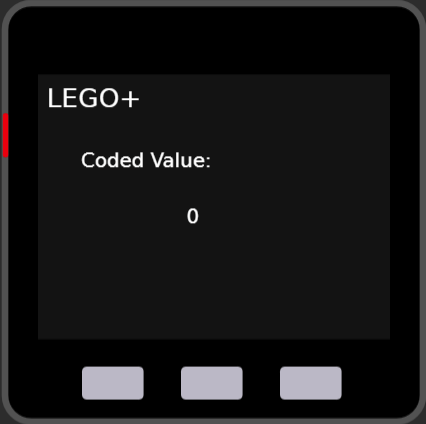
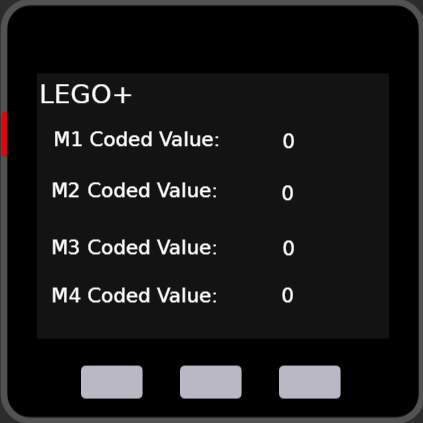
updated

diff --git a/docs/zh_CN/base/rfid_base.md b/docs/zh_CN/base/rfid_base.md
@@ -1,0 +1,123 @@
+# RFID底座 - m5go底座升级版
+
+<img src="assets/img/product_pics/base/rfid_01.png" alt="basic_02" width="250" height="250">
+
+* * *
+
+:memo:**[描述](#描述)**&nbsp;&nbsp;&nbsp;&nbsp;&nbsp;&nbsp;🛒**[购买链接](https://item.taobao.com/item.htm?spm=a1z10.3-c.w4002-1172588106.10.57b2425eKUxTqx&id=584855077636)**
+
+<!-- :memo:**[描述](#描述)**&nbsp;&nbsp;&nbsp;&nbsp;&nbsp;&nbsp;:octocat:**[例程](#例程)**&nbsp;&nbsp;&nbsp;&nbsp;&nbsp;&nbsp;:electric_plug:**[原理图](#原理图)**&nbsp;&nbsp;&nbsp;&nbsp;&nbsp;&nbsp;🛒**[购买链接](https://item.taobao.com/item.htm?spm=a1z10.3-c.w4002-1172588106.10.57b2425eKUxTqx&id=584855077636)** -->
+
+## 描述
+
+<mark>RFID底座</mark>是[M5GO底座](zh_CN/product_documents/base/m5go_base)是升级版，在M5GO底座的基础上增加了RFID功能。
+
+RFID底座由**330mAh的电池**、M-Bus总线接口、麦克风、红色的充电指示LED、2条RGB灯条(10颗)、PORT B和PORT C组成。
+
+M5GO底座在充电过程中，红色LED闪烁，充满了常亮。
+
+## 管脚映射
+
+**POGO Pin**
+
+| POGO Pin       | ESP32 Chip    |
+| :----------:  |:------------: |
+| SCL           | GPIO22        |
+| SDA           | GPIO21        |
+
+**LED Bar(Neopixel)**
+
+*有10颗RGB灯，左右各5颗*
+
+| LED Pin       | ESP32 Chip    |
+| :----------:  |:------------: |
+| LED Pin           | GPIO15        |
+
+**麦克风MIC**
+
+| MIC Pin       | ESP32 Chip    |
+| :----------:  |:------------: |
+| MIC Pin           | GPIO34        |
+
+**GROVE接口**
+
+| PORT A(I2C)       | ESP32 Chip    |
+| :----------:  |:------------: |
+| SCL           | GPIO22        |
+| SDA           | GPIO21        |
+| 5V            | 5V            |
+| GND           | GND           |
+
+| PORT B(I/O)       | ESP32 Chip    |
+| :----------:  |:------------: |
+| G36           | GPIO36        |
+| G26           | GPIO26        |
+| 5V            | 5V            |
+| GND           | GND           |
+
+| PORT C(UART2)       | ESP32 Chip    |
+| :----------:  |:------------: |
+| RXD           | GPIO16        |
+| TXD           | GPIO17        |
+| 5V            | 5V            |
+| GND           | GND           |
+
+**M-Bus**
+
+<figure>
+  <img src="assets/img/product_pics/core/M-BUS.jpg" alt="M_BUS" width="500" height="500">
+</figure>
+
+## 相关链接
+
+- **[官方频道视频](https://i.youku.com/i/UNjE1ODA2MzE0OA==?spm=a2hzp.8253869.0.0)**
+
+- **[官方论坛](http://forum.m5stack.com/)**
+
+<!-- ## 例程
+
+### 1. Arduino IDE
+
+*以下仅为用法示意，并不完整。如果需要完整例程请点击[这里](https://github.com/m5stack/M5Stack/tree/master/examples/Unit/ENV)。*
+
+```arduino
+/
+    Install Adafruit BMP280 Library first.
+*/
+#include <M5Stack.h>
+#include "DHT12.h"
+#include <Wire.h> //The DHT12 uses I2C comunication.
+#include <Adafruit_Sensor.h>
+#include <Adafruit_BMP280.h>
+
+// new two objects
+DHT12 dht12;
+Adafruit_BMP280 bme;
+
+// initialization
+M5.begin();
+Wire.begin();
+bme.begin();
+
+// read data
+float tmp = dht12.readTemperature();
+float hum = dht12.readHumidity();
+float pressure = bme.readPressure();
+``` -->
+
+<!-- ### 2. UIFlow
+
+*具体例程请点击[这里](https://github.com/m5stack/M5-ProductExampleCodes/tree/master/Unit/ENV/UIFlow)。*
+
+<img src="assets/img/product_pics/unit/unit_example/ENV/example_unit_env_01.png" width="30%" height="30%"> <img src="assets/img/product_pics/unit/unit_example/ENV/example_unit_env_02.png" width="55%" height="55%"> -->
+
+<!-- ## 原理图
+
+<img src="assets/img/product_pics/unit/env_sch.JPG">
+
+### 管脚映射
+
+<table>
+<tr><td>M5Core(GROVE接口A)</td><td>GPIO22</td><td>GPIO21</td><td>5V</td><td>GND</td></tr>
+ <tr><td>ENV温湿度和压力传感器Unit</td><td>SCL</td><td>SDA</td><td>5V</td><td>GND</td></tr>
+</table> -->

diff --git a/docs/zh_CN/base/lan_base.md b/docs/zh_CN/base/lan_base.md
@@ -3,10 +3,10 @@
 <img src="assets/img/product_pics/base/lan_01.png" width="30%" height="30%"> <img src="assets/img/product_pics/base/lan_02.png" width="30%" height="30%"> <img src="assets/img/product_pics/base/lan_03.png" width="30%" height="30%">
 
 ***
+<!--
+:memo:**[描述](#描述)**&nbsp;&nbsp;&nbsp;&nbsp;&nbsp;&nbsp;:octocat:**[例程](https://github.com/m5stack/M5-ProductExampleCodes/tree/master/Base/LAN/Arduino)**&nbsp;&nbsp;&nbsp;&nbsp;&nbsp;&nbsp;🛒**[购买链接](https://item.taobao.com/item.htm?spm=a1z10.3-c.w4002-1172588106.10.6c24425eKdAPr3&id=574863427657)** -->
 
-:memo:**[描述](#描述)**&nbsp;&nbsp;&nbsp;&nbsp;&nbsp;&nbsp;:octocat:**[例程](https://github.com/m5stack/M5-ProductExampleCodes/tree/master/Base/LAN/Arduino)**&nbsp;&nbsp;&nbsp;&nbsp;&nbsp;&nbsp;🛒**[购买链接](https://item.taobao.com/item.htm?spm=a1z10.3-c.w4002-1172588106.10.6c24425eKdAPr3&id=574863427657)**
-
-<!-- :memo:**[描述](#描述)**&nbsp;&nbsp;&nbsp;&nbsp;&nbsp;&nbsp;:octocat:**[例程](https://github.com/m5stack/M5-ProductExampleCodes/tree/master/Base/LAN/Arduino)**&nbsp;&nbsp;&nbsp;&nbsp;&nbsp;&nbsp;:electric_plug:**[原理图](#原理图)**&nbsp;&nbsp;&nbsp;&nbsp;&nbsp;&nbsp;🛒**[购买链接](https://item.taobao.com/item.htm?spm=a1z10.3-c.w4002-1172588106.10.6c24425eKdAPr3&id=574863427657)** -->
+:memo:**[描述](#描述)**&nbsp;&nbsp;&nbsp;&nbsp;&nbsp;&nbsp;:octocat:**[例程](https://github.com/m5stack/M5-ProductExampleCodes/tree/master/Base/LAN/Arduino)**&nbsp;&nbsp;&nbsp;&nbsp;&nbsp;&nbsp;:electric_plug:**[原理图](#原理图)**&nbsp;&nbsp;&nbsp;&nbsp;&nbsp;&nbsp;🛒**[购买链接](https://item.taobao.com/item.htm?spm=a1z10.3-c.w4002-1172588106.10.6c24425eKdAPr3&id=574863427657)**
 
 ## 描述
 
@@ -48,4 +48,6 @@
 
 - **[官方论坛](http://forum.m5stack.com/)**
 
-<!-- ## 原理图 -->
+## 原理图
+
+<img src="assets/img/product_pics/base/lan_sch.JPG">

diff --git a/docs/zh_CN/module/commu.md b/docs/zh_CN/module/commu.md
@@ -50,7 +50,9 @@ COMMU模块中的TTL接口，实际上是串口接口，默认连接的是串口
 
 #### CAN通信
 
-先将库[MCP_CAN_lib]()放置到Arduino的库管理文件路径中，然后分别打开CAN的发送和接收两个程序，并分别烧录到两个m5core中。
+这是两个COMMU模块分别堆叠了M5Core之后，相互之间收发数据的例程。
+
+先将库[MCP_CAN_lib](https://github.com/m5stack/M5-ProductExampleCodes/tree/master/Module/COMMU/Arduino/DependentLibrary/MCP_CAN_lib)放置到Arduino的库管理文件路径`C:\Users\<user_name>\Documents\Arduino\libraries`中，然后分别打开CAN的发送和接收两个程序，并分别烧录到两个m5core中。
 
 *具体例程请点击[这里](https://github.com/m5stack/M5-ProductExampleCodes/tree/master/Module/COMMU/Arduino/CAN).*
 
@@ -105,8 +107,12 @@ pinMode(CAN0_INT, INPUT);// Configuring pin for /INT input
 CAN0.readMsgBuf(&rxId, &len, rxBuf);
 ```
 
+<img src="assets/img/product_pics/module/module_example/COMMU/example_module_commu_01.png" width="50%" height="50%">
+
 #### RS485通信
 
-*请点击[这里](https://github.com/m5stack/M5-ProductExampleCodes/tree/master/Module/COMMU/Arduino/RS485)下载完整例程。*
+这是两个M5Core之间通过RS485相互收发数据的例程。
 
-分别下载例程到两个m5core之后，按下按键A，然后两个core之间会相互发送数据。
+分别下载[例程](https://github.com/m5stack/M5-ProductExampleCodes/tree/master/Module/COMMU/Arduino/RS485)到两个M5Core之后，按下按键A，然后两个core之间会相互发送数据。
+
+<img src="assets/img/product_pics/module/module_example/COMMU/example_module_commu_02.png" width="50%" height="50%">

diff --git a/docs/zh_CN/app/lidarbot.md b/docs/zh_CN/app/lidarbot.md
@@ -1,6 +1,6 @@
 # LidarBot
 
-<img src="assets/img/product_pics/app/lidarbot_01.jpg" width="250" height="250"> <img src="assets/img/product_pics/app/lidarbot_02.jpg" width="250" height="250"> <img src="assets/img/product_pics/app/lidarbot_03.jpg" width="250" height="250"> <img src="assets/img/product_pics/app/lidarbot_04.jpg" width="250" height="250"> <img src="assets/img/product_pics/app/lidarbot_05.jpg" width="250" height="250">
+<img src="assets/img/product_pics/app/lidarbot_01.jpg" width="250" height="250"> <img src="assets/img/product_pics/app/lidarbot_03.jpg" width="250" height="250">
 
 * * *
 
@@ -33,22 +33,28 @@
 ## 参数
 
 - 通信参数
-    - 车体的M5Core主控与激光雷达传感器（RXD <-> GPIO16）
+    - 车体的M5Core主控与激光雷达传感器（雷达TXD <-> U2RXD(GPIO16)）
     串口参数：230400bps，8位数据位，无奇偶校验，1位停止位
-    - 车体的M5Core主控与车轮控制底板（TXD <-> GPIO17）
+    - 车体的M5Core主控与车轮控制底板（底板RXD <-> U2TXD(GPIO17)）
     串口参数：115200bps，8位数据位，无奇偶校验，1位停止位
 - 接口
     - 舵机0 <-> A0(MEGA328)
     - 舵机1 <-> A1(MEGA328)
-    - NeoPixelRGB <-> 11(MEGA328)
+    - RGB灯条 <-> 11(MEGA328)
+
+<img src="assets/img/product_pics/app/lidarbot_05.jpg" width="300" height="300">
+
+<img src="assets/img/product_pics/app/lidarbot_04.jpg" width="300" height="300">
 
 ## 包含
 
-- 1x LidarBot
+- 1x 雷达车
 - 1x 远程遥控手柄
 - 2x 电池(1300mAh @ 11.1V)
 - 1x 电池充电器
 - 1x Type-C USB线
+
+<img src="assets/img/product_pics/app/lidarbot_02.jpg" width="300" height="300">
 
 ## 应用
 

diff --git a/docs/zh_CN/module/usb.md b/docs/zh_CN/module/usb.md
@@ -35,6 +35,51 @@
 
 ## 例程
 
+*以下仅为用法示意，并不完整。如果需要完整例程请点击[这里](https://github.com/m5stack/M5-ProductExampleCodes/tree/master/Unit/JOYSTICK/Arduino)。*
+
+烧录例程，USB鼠标接入模块之后，按住左键并拖动鼠标描绘白色线条；按住右键，描述绿色线条；按下中间滚轮键，清屏。
+
+```arduino
+#include <M5Stack.h>
+#include <SPI.h>
+#include <Usb.h>
+#include <hiduniversal.h>
+#include <hidboot.h>
+#include <usbhub.h>
+#include "M5Mouse.h"
+
+// new objects
+USB Usb;
+USBHub  Hub(&Usb);
+HIDBoot<USB_HID_PROTOCOL_MOUSE> HidMouse(&Usb);
+MouseRptParser  Prs;
+
+// initialization
+M5.begin();
+Usb.Init();
+HidMouse.SetReportParser(0,(HIDReportParser*)&Prs);
+
+// handle event coming from usb device
+Usb.Task();
+if(Usb.getUsbTaskState() == USB_STATE_RUNNING)
+{
+  Mouse_Pointer(mou_px, mou_py);
+  mou_px = 0;
+  mou_py = 0;
+  /* left button pressed: draw white point */
+  if (mou_button == 1)
+    M5.Lcd.drawCircle(StaPotX, StaPotY, 1, WHITE);
+  /* right button pressed: draw green point */
+  if (mou_button == 2)
+    M5.Lcd.drawCircle(StaPotX, StaPotY, 1, GREEN);
+  /* middle button pressed: clear screen */
+  if (mou_button == 4)
+    M5.Lcd.fillScreen(BLACK);
+}
+```
+
+<img src="assets/img/product_pics/module/module_example/USB/example_module_usb_01.png">
+
 ## 原理图
 
 <img src="assets/img/product_pics/module/usb_sch.png">

diff --git a/docs/zh_CN/module/lego_plus.md b/docs/zh_CN/module/lego_plus.md
@@ -41,6 +41,6 @@
 
 *具体例程请点击[这里](https://github.com/m5stack/M5-ProductExampleCodes/tree/master/Module/LEGO_PLUS/UIFlow)。*
 
-<img src="assets/img/product_pics/module/module_example/LEGO_PLUS/example_module_lego_plus_01.png" width="40%" height="40%"> <img src="assets/img/product_pics/module/module_example/LEGO_PLUS/example_module_lego_plus_02.png" width="45%" height="45%">
+<img src="assets/img/product_pics/module/module_example/LEGO_PLUS/example_module_lego_plus_01.png" width="40%" height="40%"> <img src="assets/img/product_pics/module/module_example/LEGO_PLUS/example_module_lego_plus_02_zh_CN.png" width="45%" height="45%">
 
 <!-- ## 原理图 -->

diff --git a/docs/zh_CN/unit/heart.md b/docs/zh_CN/unit/heart.md
@@ -4,9 +4,9 @@
 
 ***
 
-:memo:**[描述](#描述)**|🛒**[购买链接](https://item.taobao.com/item.htm?spm=a1z10.3-c.w4002-1172588106.11.7a46425eWmFRNi&id=583999638264)**
+:memo:**[描述](#描述)**&nbsp;&nbsp;&nbsp;&nbsp;&nbsp;&nbsp;🛒**[购买链接](https://item.taobao.com/item.htm?spm=a1z10.3-c.w4002-1172588106.11.7a46425eWmFRNi&id=583999638264)**
 
-<!-- :electric_plug:**[原理图](#原理图)** |:octocat:**[例程](#例程)**| -->
+<!-- :electric_plug:**[原理图](#原理图)**&nbsp;&nbsp;&nbsp;&nbsp;&nbsp;&nbsp;:octocat:**[例程](#例程)**&nbsp;&nbsp;&nbsp;&nbsp;&nbsp;&nbsp;-->
 
 ## 描述
 

diff --git a/docs/zh_CN/unit/thermal.md b/docs/zh_CN/unit/thermal.md
@@ -1,4 +1,4 @@
-**# THERMAL - 人体红外成像Unit
+# THERMAL - 人体红外成像Unit
 
 <img src="assets/img/product_pics/unit/M5GO_Unit_thermal.png" width="30%" height="30%"><img src="assets/img/product_pics/unit/unit_thermal_grove_a.png" width="30%" height="30%">
 

diff --git a/docs/ja/related_documents/establish_serial_connection.md b/docs/ja/related_documents/establish_serial_connection.md
@@ -1,6 +1,6 @@
 # シリアル接続の確立方法
 
-
+**[MacOS](#for-macOS)**&nbsp;&nbsp;&nbsp;&nbsp;&nbsp;&nbsp;**[Windows](#for-windows)**
 
 **このページでは、M5StackとPCとの間でシリアル接続を確立するための方法を説明します。**
 

diff --git a/docs/zh_CN/related_documents/establish_serial_connection.md b/docs/zh_CN/related_documents/establish_serial_connection.md
@@ -1,5 +1,7 @@
 # 如何安装USB驱动并建立与PC的串口通讯
 
+**[MacOS](#for-macOS)**&nbsp;&nbsp;&nbsp;&nbsp;&nbsp;&nbsp;**[Windows](#for-windows)**
+
 **这个文档会介绍如何安装USB驱动，并与PC建立串口通信.**
 
 ## For MacOS

diff --git a/docs/en/related_documents/establish_serial_connection.md b/docs/en/related_documents/establish_serial_connection.md
@@ -1,5 +1,7 @@
 # Establish Serial Connection
 
+**[MacOS](#for-macOS)**&nbsp;&nbsp;&nbsp;&nbsp;&nbsp;&nbsp;**[Windows](#for-windows)**
+
 **This section provides guidance how to establish serial connection between your board and PC.**
 
 ## For MacOS
